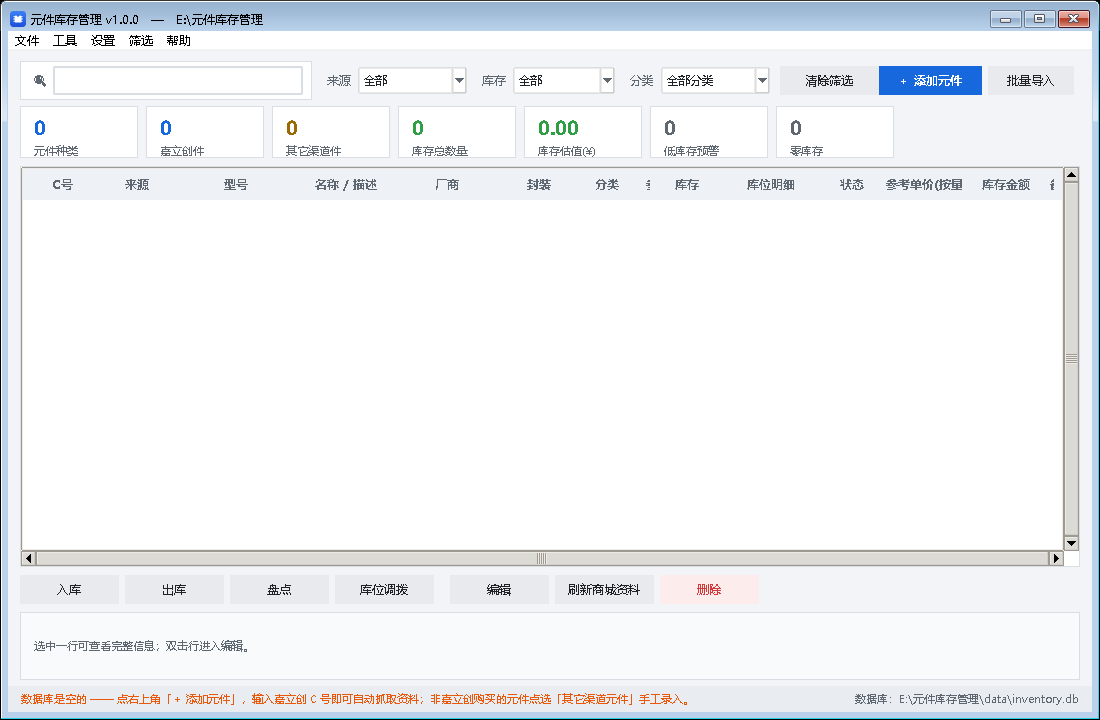
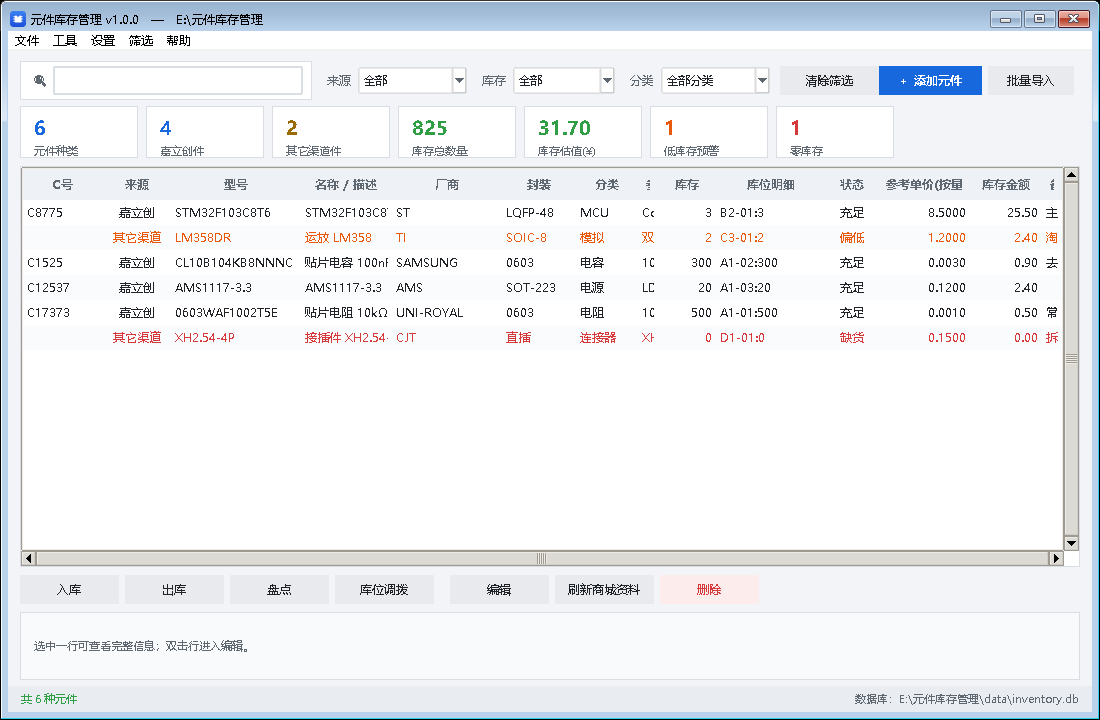
补充使用截图：有数据的主界面 + 元件编辑对话框

diff --git a/README.md b/README.md
@@ -10,6 +10,8 @@
 
 ![主界面](assets/screenshot_main.png)
 
+![编辑元件](assets/screenshot_edit.png)
+
 **核心特点**
 
 - 输入**嘉立创 C 号**即可自动抓取元件资料（型号、厂商、封装、分类、参考单价、数据手册）
